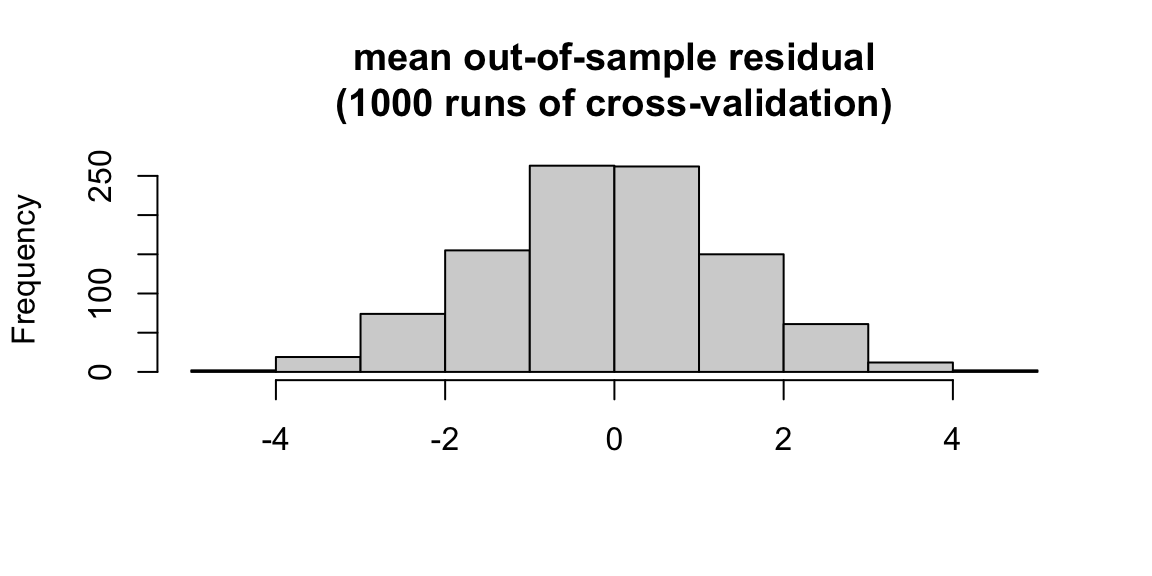
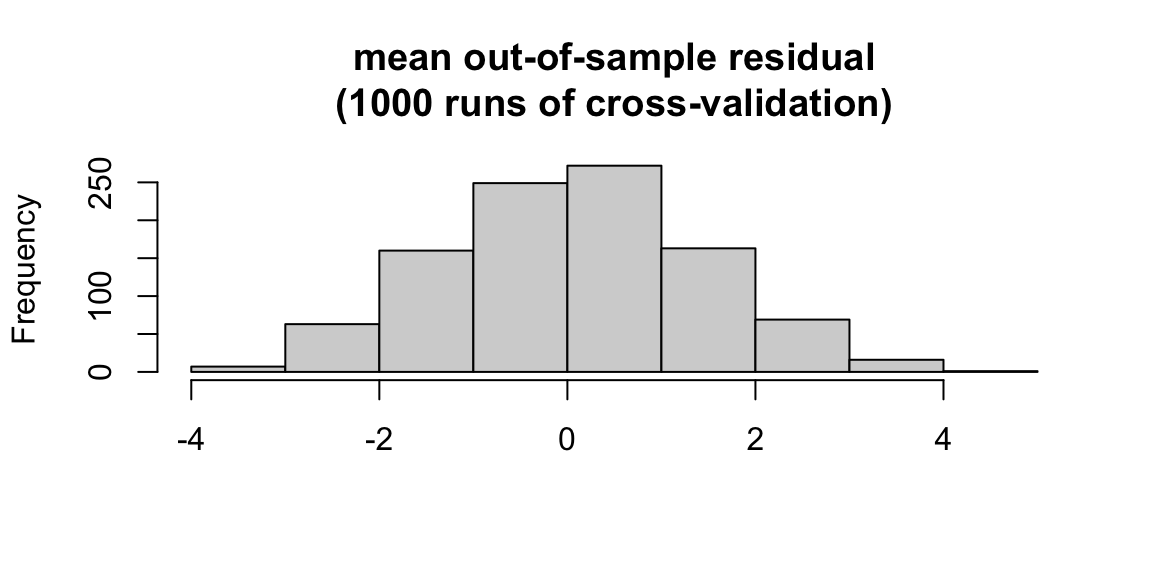
commit

diff --git a/public/post/2022-09-16-fundamentals-i-economics-forces/index.html b/public/post/2022-09-16-fundamentals-i-economics-forces/index.html
@@ -100,7 +100,7 @@ We can see that for most of the time, a positive percent change in disposable in
 <p><img src="http://example.org/post/2022-09-16-fundamentals-i-economics-forces/index_files/figure-html/unnamed-chunk-6-1.png" width="70%" style="display: block; margin: auto;" /></p>
 <p>Below is the mean out-of-sample residuals, which validates our model:</p>
 <p><img src="http://example.org/post/2022-09-16-fundamentals-i-economics-forces/index_files/figure-html/unnamed-chunk-8-1.png" width="70%" style="display: block; margin: auto;" /></p>
-<pre><code>## [1] 1.13502</code></pre>
+<pre><code>## [1] 1.123911</code></pre>
 <p>Next, I examine the percent change in unemployment rate and how that correlates with the percentage of the votes that the incumbent party receives for each election year from 1964 to 2020.</p>
 <p><img src="http://example.org/post/2022-09-16-fundamentals-i-economics-forces/index_files/figure-html/unnamed-chunk-10-1.png" width="60%" style="display: block; margin: auto;" />
 There does not seem to be a strong correlation between unemployment rate and the percentage of votes the incumbent party receives. This model seems to go against intuition, since one would suppose that more unemployment would cause constituents to be unhappy with the current government.</p>
@@ -128,7 +128,7 @@ There does not seem to be a strong correlation between unemployment rate and the
 <p><img src="http://example.org/post/2022-09-16-fundamentals-i-economics-forces/index_files/figure-html/unnamed-chunk-15-1.png" width="70%" style="display: block; margin: auto;" /></p>
 <p>Below is the mean out-of-sample residuals:</p>
 <p><img src="http://example.org/post/2022-09-16-fundamentals-i-economics-forces/index_files/figure-html/unnamed-chunk-17-1.png" width="70%" style="display: block; margin: auto;" /></p>
-<pre><code>## [1] 1.059131</code></pre>
+<pre><code>## [1] 1.036295</code></pre>
 </div>
 
 
@@ -147,7 +147,7 @@ There does not seem to be a strong correlation between unemployment rate and the
         		<footer>
 			
 			<span>
-			&copy; <time datetime="2022-12-13 22:59:27.879812 -0500 EST m=&#43;0.379706328">2022</time> . Made with <a href='https://gohugo.io'>Hugo</a> using the <a href='https://github.com/EmielH/tale-hugo/'>Tale</a> theme.
+			&copy; <time datetime="2022-12-14 09:03:50.805975 -0500 EST m=&#43;0.388069712">2022</time> . Made with <a href='https://gohugo.io'>Hugo</a> using the <a href='https://github.com/EmielH/tale-hugo/'>Tale</a> theme.
 			</span>
 		</footer>
 

diff --git a/public/post/incumbency/index.html b/public/post/incumbency/index.html
@@ -6,7 +6,7 @@
 		<meta charset="UTF-8">
 		<meta name="viewport" content="width=device-width, initial-scale=1.0">
 
-		<title>Tags &middot; My New Hugo Site</title>
+		<title>Incumbency &middot; My New Hugo Site</title>
 
 		
 		<link rel="stylesheet" href="/css/style.css">
@@ -18,7 +18,7 @@
 		<link rel="apple-touch-icon" sizes="180x180" href="/images/apple-touch-icon.png">
 
 		
-		<link href="/tags/index.xml" rel="alternate" type="application/rss+xml" title="My New Hugo Site" />
+		<link href="" rel="alternate" type="application/rss+xml" title="My New Hugo Site" />
 
 		<script src="/js/darkmode.js"></script>
 	</head>
@@ -28,7 +28,7 @@
 			<div class="nav-container">
 				<a href="/">
 					
-						<h1 class="nav-title">My New Hugo Site</h1>
+						<h2 class="nav-title">My New Hugo Site</h2>
 					
 				</a>
 				<ul>
@@ -43,13 +43,35 @@
 </div>
 
         
+
 <main>
-    <h1>Tags</h1>
-	<div class="catalogue">
-        <ul></ul>
-	</div>
 	
-	<div class="pagination"><span>1</span>
+
+
+        <div class="post">
+		<div class="post-info">
+    <span>Written by</span>
+        Corine Chung
+</div>
+
+		<h1 class="post-title">Incumbency</h1>
+<div class="post-line"></div>
+
+		
+
+		
+
+
+<p>Test</p>
+
+
+		
+	</div>
+
+	<div class="pagination">
+		<a href="/post/2022-09-10-election-analysis-introduction/" class="right arrow">&#8594;</a>
+
+		<a href="#" class="top">Top</a>
 	</div>
 </main>
 
@@ -57,7 +79,7 @@
         		<footer>
 			
 			<span>
-			&copy; <time datetime="2022-12-14 09:03:50.826224 -0500 EST m=&#43;0.408317918">2022</time> . Made with <a href='https://gohugo.io'>Hugo</a> using the <a href='https://github.com/EmielH/tale-hugo/'>Tale</a> theme.
+			&copy; <time datetime="2022-12-14 09:03:50.810273 -0500 EST m=&#43;0.392367147">2022</time> . Made with <a href='https://gohugo.io'>Hugo</a> using the <a href='https://github.com/EmielH/tale-hugo/'>Tale</a> theme.
 			</span>
 		</footer>
 

diff --git a/content/post/2022-09-16-fundamentals-i-economics-forces/index.html b/content/post/2022-09-16-fundamentals-i-economics-forces/index.html
@@ -45,7 +45,7 @@ We can see that for most of the time, a positive percent change in disposable in
 <p><img src="{{< blogdown/postref >}}index_files/figure-html/unnamed-chunk-6-1.png" width="70%" style="display: block; margin: auto;" /></p>
 <p>Below is the mean out-of-sample residuals, which validates our model:</p>
 <p><img src="{{< blogdown/postref >}}index_files/figure-html/unnamed-chunk-8-1.png" width="70%" style="display: block; margin: auto;" /></p>
-<pre><code>## [1] 1.13502</code></pre>
+<pre><code>## [1] 1.123911</code></pre>
 <p>Next, I examine the percent change in unemployment rate and how that correlates with the percentage of the votes that the incumbent party receives for each election year from 1964 to 2020.</p>
 <p><img src="{{< blogdown/postref >}}index_files/figure-html/unnamed-chunk-10-1.png" width="60%" style="display: block; margin: auto;" />
 There does not seem to be a strong correlation between unemployment rate and the percentage of votes the incumbent party receives. This model seems to go against intuition, since one would suppose that more unemployment would cause constituents to be unhappy with the current government.</p>
@@ -73,5 +73,5 @@ There does not seem to be a strong correlation between unemployment rate and the
 <p><img src="{{< blogdown/postref >}}index_files/figure-html/unnamed-chunk-15-1.png" width="70%" style="display: block; margin: auto;" /></p>
 <p>Below is the mean out-of-sample residuals:</p>
 <p><img src="{{< blogdown/postref >}}index_files/figure-html/unnamed-chunk-17-1.png" width="70%" style="display: block; margin: auto;" /></p>
-<pre><code>## [1] 1.059131</code></pre>
+<pre><code>## [1] 1.036295</code></pre>
 </div>

diff --git a/public/post/index.html b/public/post/index.html
@@ -103,6 +103,19 @@ Real Disposable Income Quarterly First, I examine the percent change in disposab
 </a>
 
 		
+			<a href="http://example.org/post/incumbency/" class="catalogue-item">
+    <div>
+        <time datetime="0001-01-01 00:00:00 &#43;0000 UTC" class="catalogue-time">January 1, 0001</time>
+        <h2 class="catalogue-title">Incumbency</h2>
+        <div class="catalogue-line"></div>
+
+        <p>
+            Test
+        </p>
+    </div>
+</a>
+
+		
 	</div>
 	
 	<div class="pagination">
@@ -117,7 +130,7 @@ Real Disposable Income Quarterly First, I examine the percent change in disposab
         		<footer>
 			
 			<span>
-			&copy; <time datetime="2022-12-13 22:59:27.91292 -0500 EST m=&#43;0.412812627">2022</time> . Made with <a href='https://gohugo.io'>Hugo</a> using the <a href='https://github.com/EmielH/tale-hugo/'>Tale</a> theme.
+			&copy; <time datetime="2022-12-14 09:03:50.819772 -0500 EST m=&#43;0.401865836">2022</time> . Made with <a href='https://gohugo.io'>Hugo</a> using the <a href='https://github.com/EmielH/tale-hugo/'>Tale</a> theme.
 			</span>
 		</footer>
 

diff --git a/public/index.html b/public/index.html
@@ -108,6 +108,19 @@ Real Disposable Income Quarterly First, I examine the percent change in disposab
 </a>
 
 		
+			<a href="http://example.org/post/incumbency/" class="catalogue-item">
+    <div>
+        <time datetime="0001-01-01 00:00:00 &#43;0000 UTC" class="catalogue-time">January 1, 0001</time>
+        <h2 class="catalogue-title">Incumbency</h2>
+        <div class="catalogue-line"></div>
+
+        <p>
+            Test
+        </p>
+    </div>
+</a>
+
+		
 	</div>
 
 	<div class="pagination">
@@ -122,7 +135,7 @@ Real Disposable Income Quarterly First, I examine the percent change in disposab
         		<footer>
 			
 			<span>
-			&copy; <time datetime="2022-12-13 22:59:27.902518 -0500 EST m=&#43;0.402411048">2022</time> . Made with <a href='https://gohugo.io'>Hugo</a> using the <a href='https://github.com/EmielH/tale-hugo/'>Tale</a> theme.
+			&copy; <time datetime="2022-12-14 09:03:50.82061 -0500 EST m=&#43;0.402704235">2022</time> . Made with <a href='https://gohugo.io'>Hugo</a> using the <a href='https://github.com/EmielH/tale-hugo/'>Tale</a> theme.
 			</span>
 		</footer>
 

diff --git a/public/post/2022-09-10-election-analysis-introduction/index.html b/public/post/2022-09-10-election-analysis-introduction/index.html
@@ -87,6 +87,7 @@ As determined by the key on the right, the GOP two-party vote share margin in Mi
 	</div>
 
 	<div class="pagination">
+		<a href="/post/incumbency/" class="left arrow">&#8592;</a>
 		<a href="/post/2022-09-16-fundamentals-i-economics-forces/" class="right arrow">&#8594;</a>
 
 		<a href="#" class="top">Top</a>
@@ -97,7 +98,7 @@ As determined by the key on the right, the GOP two-party vote share margin in Mi
         		<footer>
 			
 			<span>
-			&copy; <time datetime="2022-12-13 22:59:27.90528 -0500 EST m=&#43;0.405173558">2022</time> . Made with <a href='https://gohugo.io'>Hugo</a> using the <a href='https://github.com/EmielH/tale-hugo/'>Tale</a> theme.
+			&copy; <time datetime="2022-12-14 09:03:50.807328 -0500 EST m=&#43;0.389422504">2022</time> . Made with <a href='https://gohugo.io'>Hugo</a> using the <a href='https://github.com/EmielH/tale-hugo/'>Tale</a> theme.
 			</span>
 		</footer>
 

diff --git a/public/post/2022-09-23-polling/index.html b/public/post/2022-09-23-polling/index.html
@@ -112,7 +112,7 @@ I do the same for the proportion of missed races outside of each pollster’s ma
         		<footer>
 			
 			<span>
-			&copy; <time datetime="2022-12-13 22:59:27.909029 -0500 EST m=&#43;0.408922030">2022</time> . Made with <a href='https://gohugo.io'>Hugo</a> using the <a href='https://github.com/EmielH/tale-hugo/'>Tale</a> theme.
+			&copy; <time datetime="2022-12-14 09:03:50.828872 -0500 EST m=&#43;0.410965970">2022</time> . Made with <a href='https://gohugo.io'>Hugo</a> using the <a href='https://github.com/EmielH/tale-hugo/'>Tale</a> theme.
 			</span>
 		</footer>
 

diff --git a/public/post/2022-09-23-polls/index.html b/public/post/2022-09-23-polls/index.html
@@ -113,7 +113,7 @@ I do the same for the proportion of missed races outside of each pollster’s ma
         		<footer>
 			
 			<span>
-			&copy; <time datetime="2022-12-13 22:59:27.90903 -0500 EST m=&#43;0.408923548">2022</time> . Made with <a href='https://gohugo.io'>Hugo</a> using the <a href='https://github.com/EmielH/tale-hugo/'>Tale</a> theme.
+			&copy; <time datetime="2022-12-14 09:03:50.806775 -0500 EST m=&#43;0.388869470">2022</time> . Made with <a href='https://gohugo.io'>Hugo</a> using the <a href='https://github.com/EmielH/tale-hugo/'>Tale</a> theme.
 			</span>
 		</footer>
 

diff --git a/public/categories/index.html b/public/categories/index.html
@@ -57,7 +57,7 @@
         		<footer>
 			
 			<span>
-			&copy; <time datetime="2022-12-13 22:59:27.911428 -0500 EST m=&#43;0.411320837">2022</time> . Made with <a href='https://gohugo.io'>Hugo</a> using the <a href='https://github.com/EmielH/tale-hugo/'>Tale</a> theme.
+			&copy; <time datetime="2022-12-14 09:03:50.819104 -0500 EST m=&#43;0.401197621">2022</time> . Made with <a href='https://gohugo.io'>Hugo</a> using the <a href='https://github.com/EmielH/tale-hugo/'>Tale</a> theme.
 			</span>
 		</footer>
 

diff --git a/content/post/incumbency/index.html b/content/post/incumbency/index.html
@@ -1,0 +1,12 @@
+---
+title: Incumbency
+author: Corine Chung
+date: ''
+slug: []
+categories: []
+tags: []
+---
+
+
+
+<p>Test</p>
